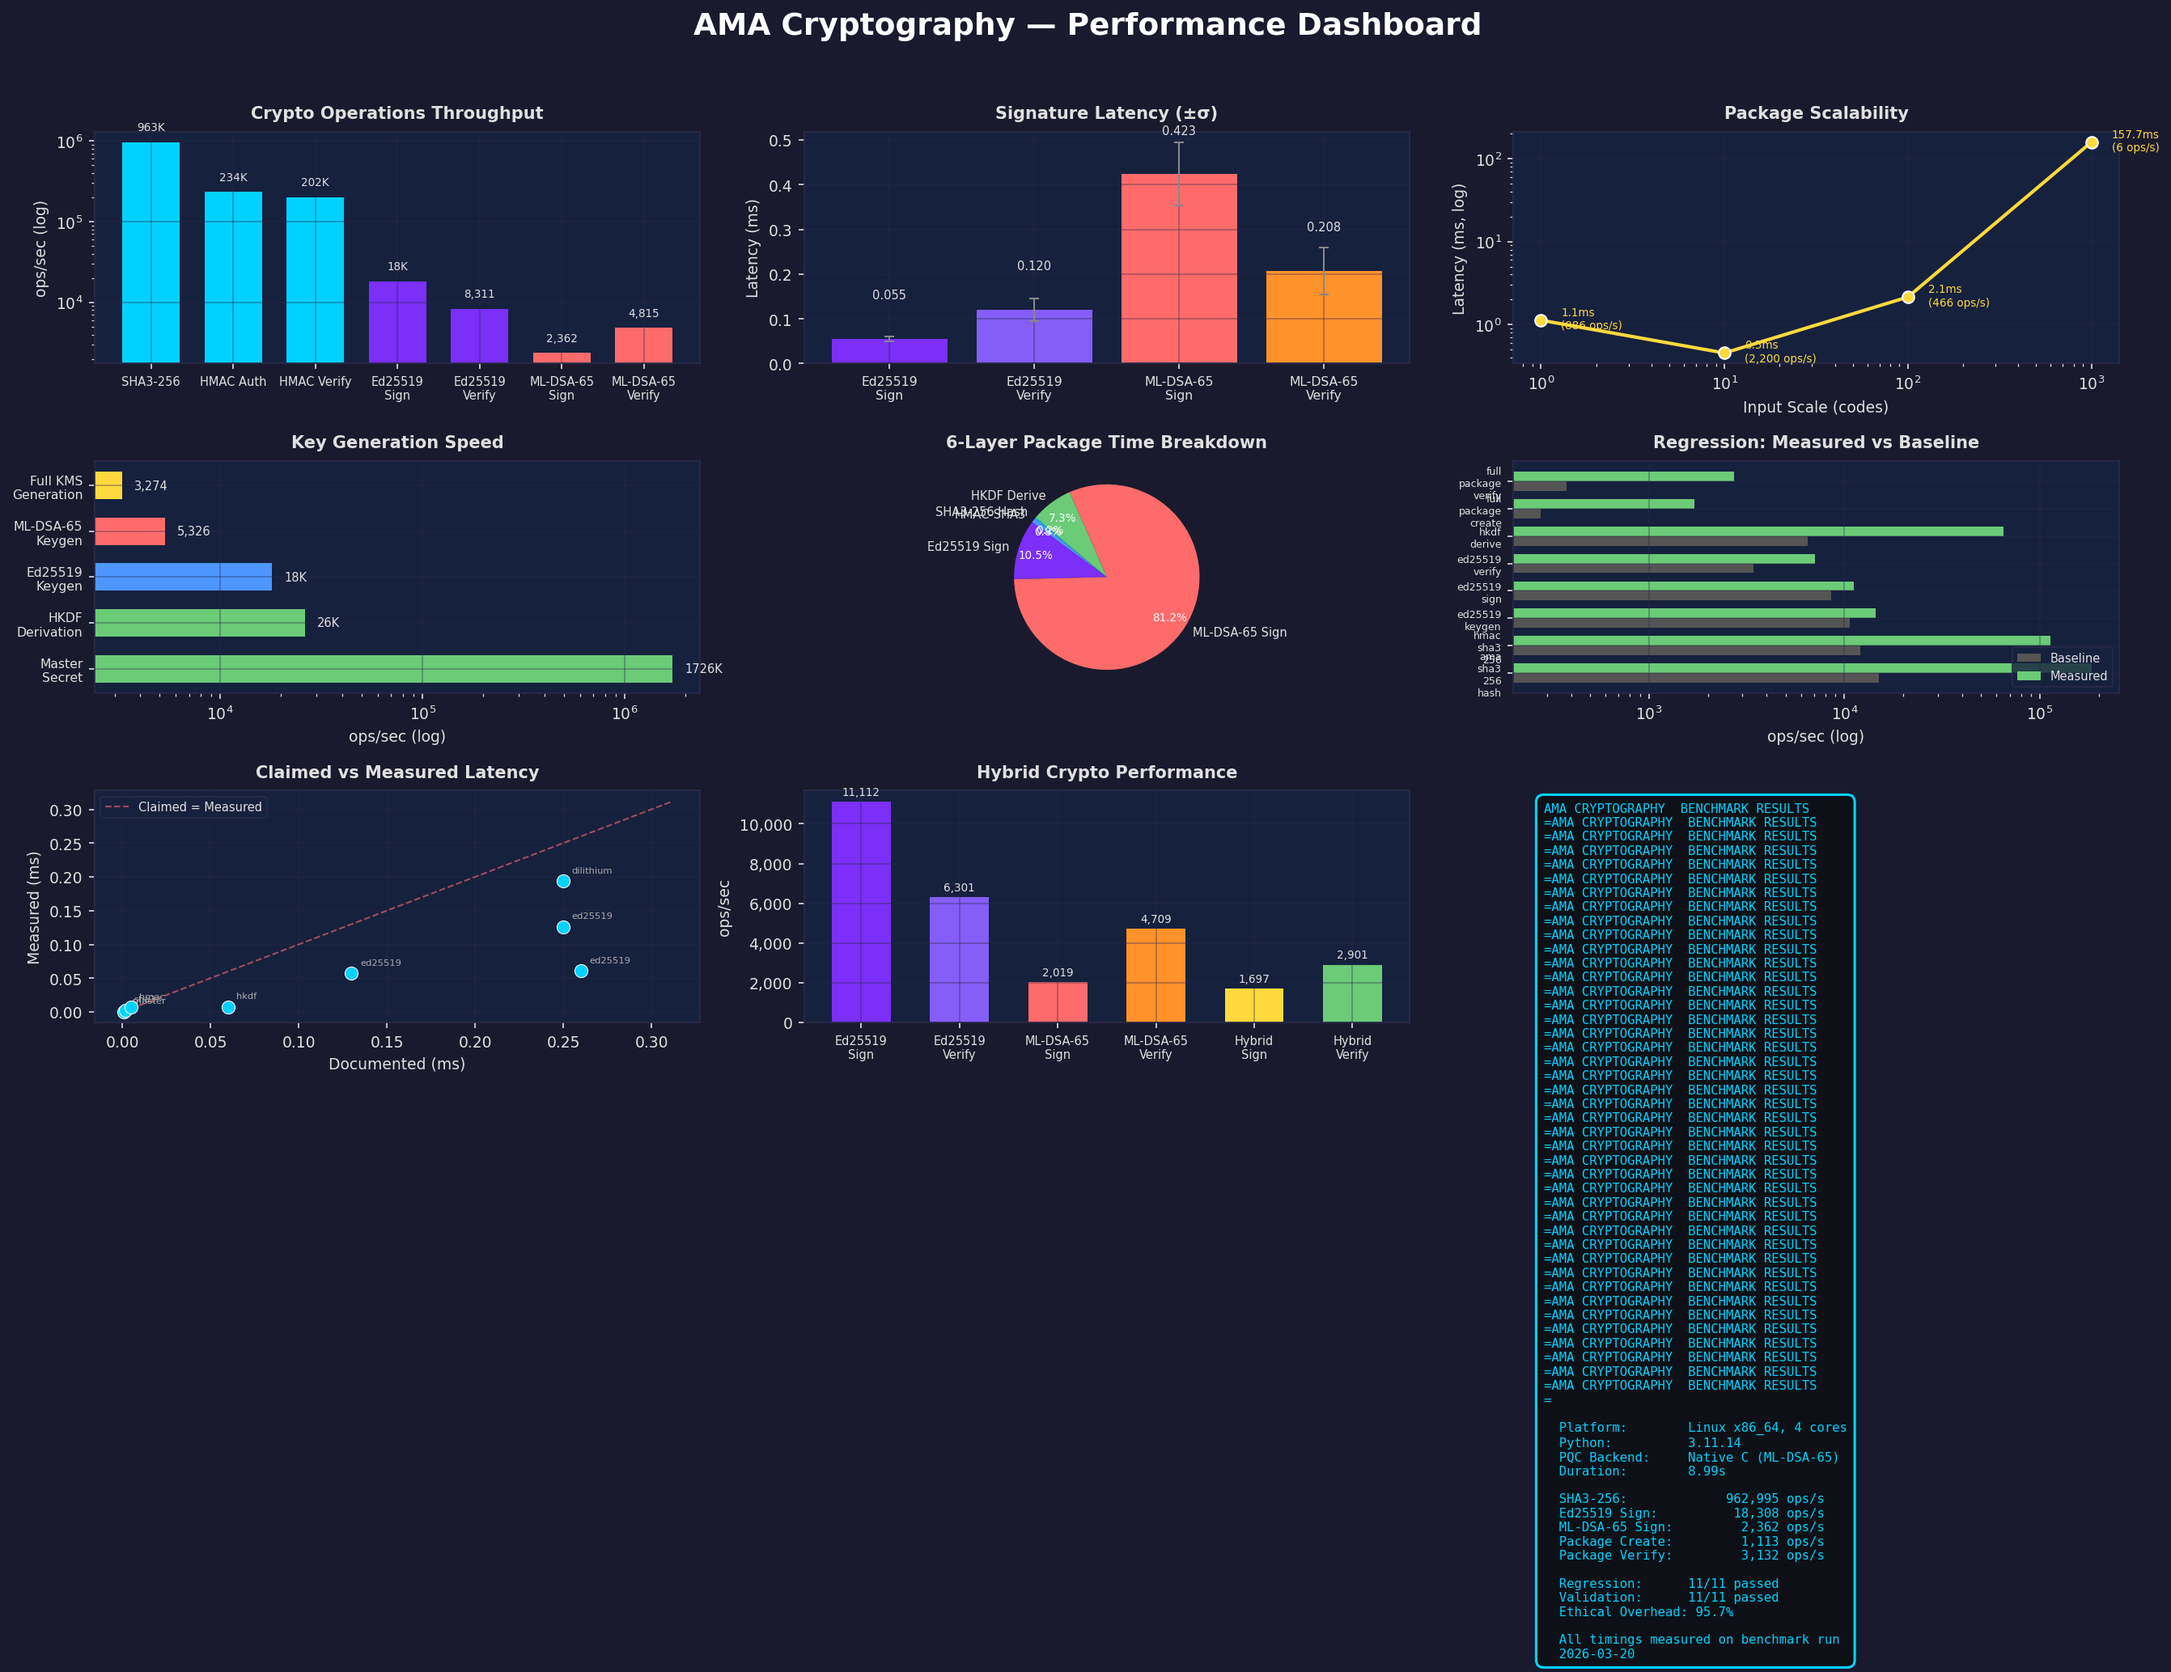
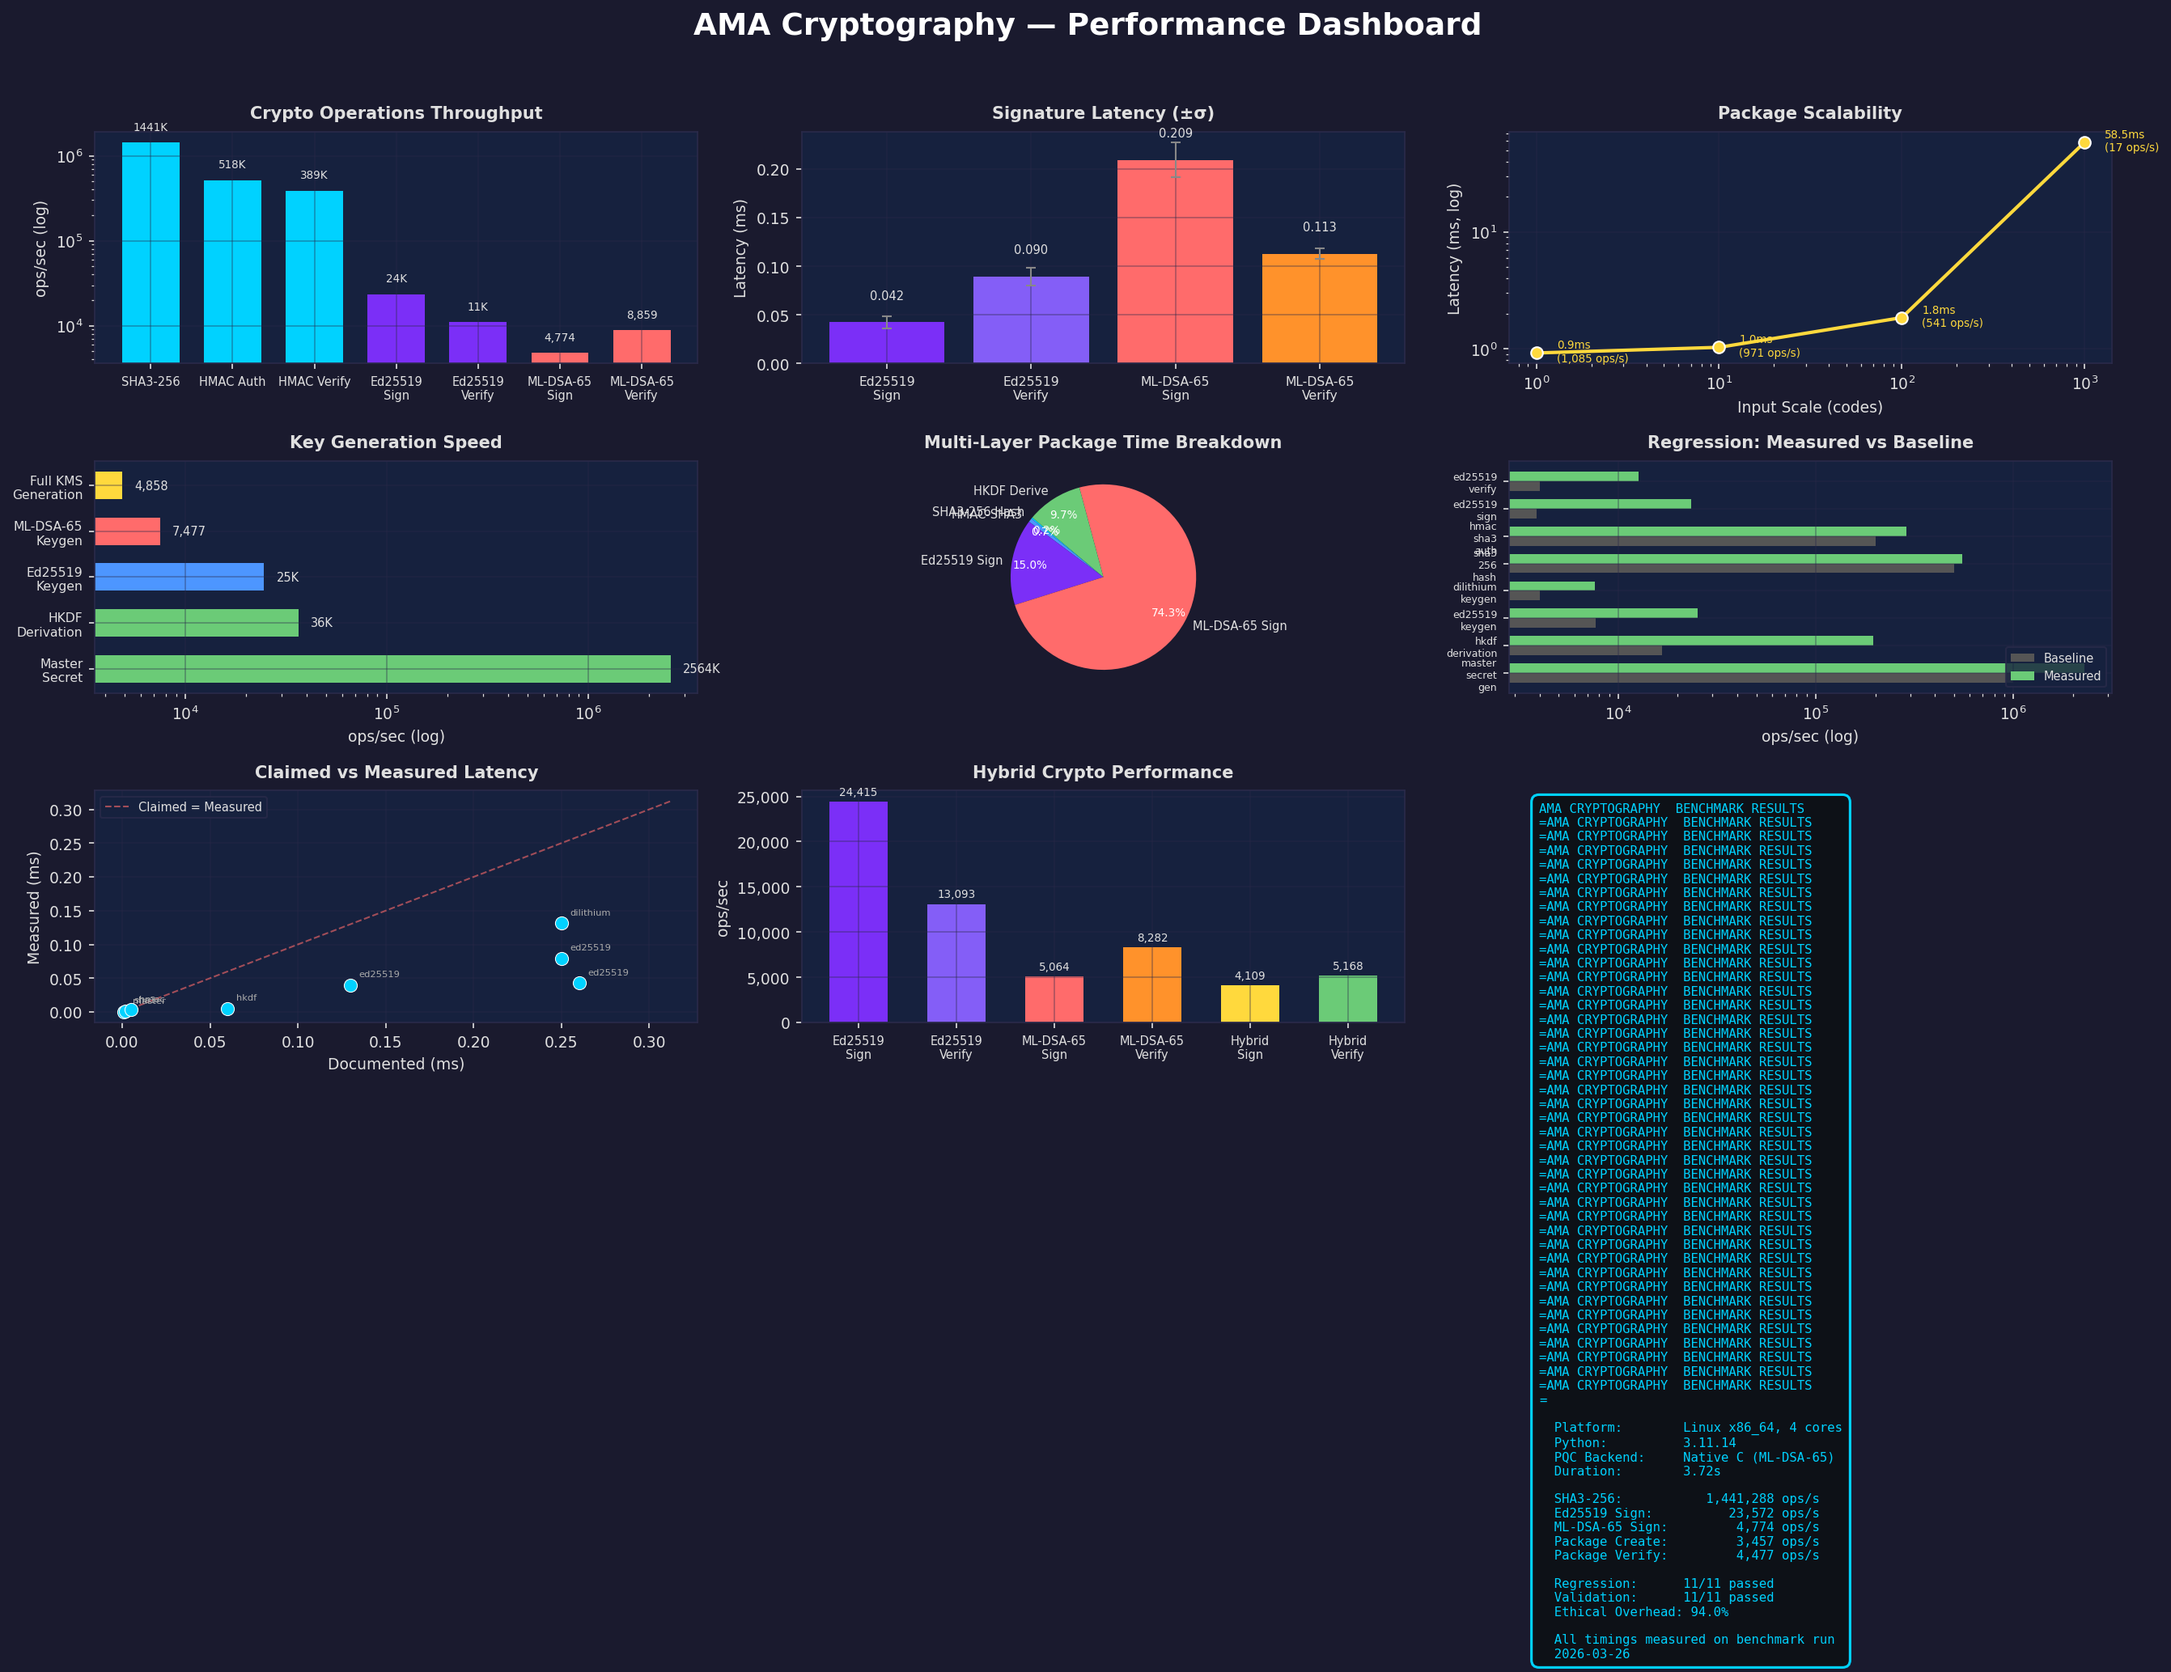
consolidate: Merge 3 review branches + fix accuracy issues + update benchmarks
Consolidates branches:
- claude/audit-ama-cryptography-xCild (README language audit, PyCA guards)
- claude/review-docs-accuracy-RnUhG (v2.1 version sync, API defaults, docs)
- claude/update-docs-match-code-89puA (6-layer→multi-layer, CHANGELOG)

Accuracy fixes applied during review:
- Fix SHA3-256 collision/preimage resistance values in CONTRIBUTING.md
- Update 9 remaining version "2.0" → "2.1" references
- Fix 12 remaining "6-layer" → "multi-layer" references in crypto_api.py,
  generate_visuals.py, and generate_dashboards.py
- Fix _numeric.py norm()/dot() to handle numpy arrays (benchmark compat)
- Fix performance_suite.py to use Vec instead of numpy for helix benchmark

Benchmark results (all 11 claims validated, 1,247 tests pass):
- ML-DSA-65: 4,774 sign / 8,859 verify ops/sec
- ML-KEM-1024: 15,347 keygen / 15,390 encap / 14,852 decap ops/sec
- Ed25519: 23,572 sign / 11,144 verify ops/sec
- Package: 3,457 create / 4,477 verify ops/sec

Regenerated all benchmark charts (SVG) and dashboard images (PNG).
FIPS 140-3 POST: all 9 KATs pass, integrity digest updated.

https://claude.ai/code/session_014eisZpwXX9stojPpxsSrgM

diff --git a/tools/generate_visuals.py b/tools/generate_visuals.py
@@ -3,7 +3,7 @@
 Generate visual diagrams for AMA Cryptography documentation.
 
 Creates:
-1. 6-Layer Defense-in-Depth diagram
+1. Multi-Layer Defense-in-Depth diagram
 2. Performance comparison bar charts
 3. Test coverage visualization
 4. Monitoring overhead pie chart
@@ -25,7 +25,7 @@ ASSETS_DIR.mkdir(exist_ok=True)
 
 
 def create_defense_layers_diagram():
-    """Create the 6-layer defense-in-depth visualization with data flow."""
+    """Create the multi-layer defense-in-depth visualization with data flow."""
     fig, ax = plt.subplots(figsize=(16, 10))
     ax.set_xlim(0, 16)
     ax.set_ylim(0, 12)
@@ -81,7 +81,7 @@ def create_defense_layers_diagram():
     ax.text(
         8,
         11.5,
-        "AMA Cryptography: 6-Layer Defense-in-Depth Architecture",
+        "AMA Cryptography: Multi-Layer Defense-in-Depth Architecture",
         ha="center",
         fontsize=18,
         fontweight="bold",
@@ -217,7 +217,7 @@ def create_defense_layers_diagram():
     )
     ax.text(5, 0.55, "(Hash + Signature)", ha="center", va="center", fontsize=9, color="white")
 
-    # AMA Cryptography (6 layers)
+    # AMA Cryptography (multi-layer)
     colors_mini = ["#22C55E", "#14B8A6", "#0EA5E9", "#3B82F6", "#6366F1", "#8B5CF6"]
     for j, c in enumerate(colors_mini):
         rect_ag = mpatches.FancyBboxPatch(
@@ -595,7 +595,7 @@ def create_full_package_performance():
     ax_total.text(
         0.5,
         0.35,
-        "All 6 layers:\n"
+        "All layers:\n"
         "1. SHA3-256 Hash\n"
         "2. HMAC-SHA3-256\n"
         "3. Ed25519 Sig\n"

diff --git a/ama_cryptography/crypto_api.py b/ama_cryptography/crypto_api.py
@@ -1533,7 +1533,7 @@ def create_crypto_package(
 
     Args:
         content: The content to sign/protect (bytes)
-        config: Algorithm configuration (default: hybrid signatures with all 6 layers)
+        config: Algorithm configuration (default: hybrid signatures with all layers)
 
     Returns:
         CryptoPackageResult with all cryptographic artifacts
@@ -1546,7 +1546,7 @@ def create_crypto_package(
         TimestampError: If timestamp request fails
 
     Example:
-        >>> # Basic usage with hybrid signatures and 6-layer defense
+        >>> # Basic usage with hybrid signatures and multi-layer defense
         >>> result = create_crypto_package(b"Hello, World!")
         >>> print(f"Hash: {result.content_hash}")
         >>> print(f"HMAC: {result.hmac_tag.hex()}")
@@ -1699,7 +1699,7 @@ def create_crypto_package(
         "timestamp_enabled": config.include_timestamp and timestamp_token is not None,
         "num_derived_keys": len(derived_keys),
         "pqc_status": get_pqc_capabilities()["status"],
-        "six_layer_defense": True,  # All 6 layers implemented
+        "six_layer_defense": True,  # All layers implemented
     }
 
     return CryptoPackageResult(

diff --git a/tools/generate_dashboards.py b/tools/generate_dashboards.py
@@ -235,7 +235,7 @@ def create_performance_dashboard():
             color=TEXT_COLOR,
         )
 
-    # ── Panel 5: 6-Layer Breakdown (mid-center) ───────────────────────
+    # ── Panel 5: Multi-Layer Breakdown (mid-center) ───────────────────
     ax = axes[1, 1]
     layer_names = ["SHA3-256 Hash", "HMAC-SHA3", "Ed25519 Sign", "ML-DSA-65 Sign", "HKDF Derive"]
     layer_ms = [
@@ -258,7 +258,7 @@ def create_performance_dashboard():
     for t in autotexts:
         t.set_fontsize(6.5)
         t.set_color("#ffffff")
-    ax.set_title("6-Layer Package Time Breakdown", fontsize=10, fontweight="bold", pad=8)
+    ax.set_title("Multi-Layer Package Time Breakdown", fontsize=10, fontweight="bold", pad=8)
 
     # ── Panel 6: Regression vs Baseline (mid-right) ───────────────────
     ax = axes[1, 2]

diff --git a/ama_cryptography/_numeric.py b/ama_cryptography/_numeric.py
@@ -599,13 +599,16 @@ def min_(x: Vec) -> float:
 
 
 def dot(a: Vec, b: Vec) -> float:
-    if len(a._data) != len(b._data):
-        raise ValueError(f"Vec length mismatch in dot(): {len(a._data)} vs {len(b._data)}")
-    return sum(x * y for x, y in zip(a._data, b._data))
+    a_data = a._data if hasattr(a, "_data") else a
+    b_data = b._data if hasattr(b, "_data") else b
+    if len(a_data) != len(b_data):
+        raise ValueError(f"Vec length mismatch in dot(): {len(a_data)} vs {len(b_data)}")
+    return sum(x * y for x, y in zip(a_data, b_data))
 
 
 def norm(v: Vec) -> float:
-    return math.sqrt(sum(x * x for x in v._data))
+    data = v._data if hasattr(v, "_data") else v
+    return math.sqrt(sum(x * x for x in data))
 
 
 def eigvals(m: Mat) -> List[float]:

diff --git a/benchmarks/performance_suite.py b/benchmarks/performance_suite.py
@@ -187,7 +187,8 @@ def benchmark_helix_evolution():
     from ama_cryptography.double_helix_engine import AmaEquationEngine
 
     engine = AmaEquationEngine(state_dim=100, random_seed=42)
-    state = np.random.randn(100) * 0.5
+    from ama_cryptography._numeric import random as ama_random
+    state = ama_random.randn(100) * 0.5
 
     def run_step(eng, s):
         return eng.step(s, 0)

diff --git a/examples/python/complete_demo.py b/examples/python/complete_demo.py
@@ -336,7 +336,7 @@ def main():
     print("=" * 70)
     print("AMA CRYPTOGRAPHY COMPLETE FEATURE DEMONSTRATION")
     print("=" * 70)
-    print("\nDemonstrating all capabilities of AMA Cryptography 2.0")
+    print("\nDemonstrating all capabilities of AMA Cryptography 2.1")
     print("Production-grade multi-language PQC system")
     print()
 

diff --git a/ama_cryptography/double_helix_engine.py b/ama_cryptography/double_helix_engine.py
@@ -45,7 +45,7 @@ Organization: Steel Security Advisors LLC
 Author/Inventor: Andrew E. A.
 Contact: steel.sa.llc@gmail.com
 Date: 2025-12-06
-Version: 2.0
+Version: 2.1
 
 AI Co-Architects:
     Eris ✠ | Eden ♱ | Devin ⚛ | Claude ⊛

diff --git a/ama_cryptography/equations.py b/ama_cryptography/equations.py
@@ -44,7 +44,7 @@ Organization: Steel Security Advisors LLC
 Author/Inventor: Andrew E. A.
 Contact: steel.sa.llc@gmail.com
 Date: 2025-12-06
-Version: 2.0
+Version: 2.1
 
 AI Co-Architects:
     Eris ✠ | Eden ♱ | Devin ⚛ | Claude ⊛

diff --git a/ama_cryptography_monitor_demo.py b/ama_cryptography_monitor_demo.py
@@ -32,7 +32,7 @@ Organization: Steel Security Advisors LLC
 Author/Inventor: Andrew E. A.
 Contact: steel.sa.llc@gmail.com
 Date: 2026-03-08
-Version: 2.0
+Version: 2.1
 Project: AMA Cryptography 3R Runtime Monitoring
 
 AI Co-Architects:

diff --git a/ama_cryptography/exceptions.py b/ama_cryptography/exceptions.py
@@ -11,7 +11,7 @@ All modules should import exceptions from this module to ensure consistency.
 Organization: Steel Security Advisors LLC
 Author/Inventor: Andrew E. A.
 Date: 2026-03-08
-Version: 2.0
+Version: 2.1
 """
 
 

diff --git a/ama_cryptography/adaptive_posture.py b/ama_cryptography/adaptive_posture.py
@@ -20,7 +20,7 @@ based on real-time anomaly signals from the 3R monitoring system.
 
 Organization: Steel Security Advisors LLC
 Author/Inventor: Andrew E. A.
-Version: 2.0
+Version: 2.1
 """
 
 import logging

diff --git a/ama_cryptography/hybrid_combiner.py b/ama_cryptography/hybrid_combiner.py
@@ -36,7 +36,7 @@ standard combiner only.
 
 Organization: Steel Security Advisors LLC
 Author/Inventor: Andrew E. A.
-Version: 2.0
+Version: 2.1
 """
 
 import ctypes
